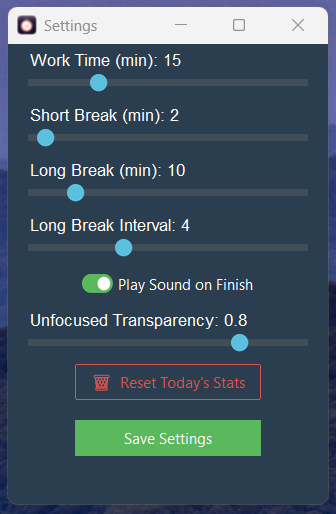
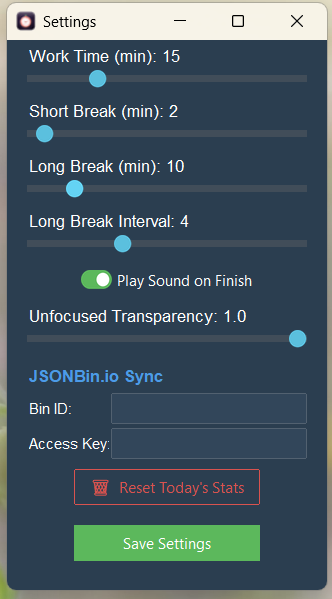
update readme

Changed region(s): [[0.0, 0.0, 1.0, 1.0], [0.8735, 0.5292, 0.9337, 0.5914]]

diff --git a/README.md b/README.md
@@ -1,29 +1,40 @@
 # Pomodoro Timer
-A desktop Pomodoro timer and stopwatch app built with Python and Tkinter (ttkbootstrap). It includes todo management, daily stats, sound alerts, and customizable window sizes and transparency.
+A desktop Pomodoro timer and stopwatch app that always stays on top. It includes todo management, daily stats, syncing, and more.
 
-## Download
 
-Prebuilt executables for Windows, macOS, and Linux are published on the [Releases page](../../releases) for every tagged version.
+
+## Quick Start
+
+### Download
+Prebuilt executables for Windows, macOS, and Linux are published on the [Releases page](../../releases).
+
+### Command Line
+Requires the `uv` package manager. Run:
+```bash
+uv run src/pomodoro.py
+```
+
+
 
 ## Features
 - Customizable Pomodoro cycles: Work, Short Break, Long Break
-- Endless Timer/Stopwatch mode for custom focus sessions
-- Todo management in a separate window with add, edit, delete, and completion tracking
+- Endless Stopwatch mode
+- Todo management
 - Optional todo sync across devices via [JSONBin](https://jsonbin.io)
-- Daily Report with today's focus statistics and a statistics reset option in settings
-- Audio notifications on session completion
-- Adjustable font size for a customizable desktop clock feel
-- Always on top, with transparency option when unfocused (transparency on macOS in progress)
-- Timer maximize and minimize option for minimal distraction
+- Daily Report
+- Adjustable font size
+- Always on top, with transparency option (transparency support on macOS is in progress)
 - Remembers and restores custom window dimensions
+
+
 
 ## Screenshots
 
 ![main](images/main.png)
 
-![maximized](images/maximized.png)
-
 ![stopwatch](images/stopwatch.png)
+
+![maximized](images/maximized.png)
 
 ![todos](images/todos.png)
 
@@ -31,39 +42,12 @@ Prebuilt executables for Windows, macOS, and Linux are published on the [Release
 
 ![report](images/report.png)
 
+
+
+
 ## Setup
 
 We use `uv` for dependency management. Install it from [here](https://docs.astral.sh/uv/getting-started/installation/) if you don't have it.
-
-## Versioning
-
-The app version is defined once in `pyproject.toml`. Platform builds read that value for the Settings window, the Linux `.deb` package, the Windows installer, and the macOS app bundle.
-
-Use `uv` to bump the version. This updates both `pyproject.toml` and the project entry in `uv.lock`; do not edit `uv.lock` manually:
-
-```bash
-uv version --bump patch
-```
-
-To publish a release, validate and commit the version change before creating the matching tag:
-
-```bash
-VERSION=$(uv version --short)
-
-uv lock --check
-uv run pytest -q
-
-git add pyproject.toml uv.lock
-git commit -m "Bump version to ${VERSION}"
-
-git tag "v${VERSION}"
-git push origin HEAD
-git push origin "v${VERSION}"
-```
-
-Pushing the tag triggers the `Release` GitHub Actions workflow, which builds Linux, Windows, and macOS packages and attaches them to a new GitHub Release. Use `uv version --bump minor` or `uv version --bump major` instead when appropriate.
-
-## Running
 
 ### Run directly (all platforms)
 ```bash
@@ -99,23 +83,13 @@ uv run pyinstaller --clean --noconfirm pomodoro.spec
 ```
 Then run `open dist/Pomodoro.app` (or double-click the bundle in Finder).
 
-## Configuration
-Settings (`settings.json`) and session statistics (`history.json`) are stored in the user profile directory:
-- **Windows**: `%APPDATA%\pomodoro-timer\` (e.g., `C:\Users\<username>\AppData\Roaming\pomodoro-timer\`)
-- **macOS & Linux**: `~/.config/pomodoro-timer/`
+
 
 ## Todo Sync (JSONBin)
-Todos can be synced across devices using [JSONBin](https://jsonbin.io) as free cloud storage. Sync pulls the remote list, merges it with your local todos (the most recently edited version of each item wins), pushes the merged result back, and saves it locally — all in a background thread so the UI never freezes.
-
-Sync runs automatically:
-- When the Todos window opens (pulling in anything changed elsewhere) and again when it closes (pushing anything you just changed).
-- ~2.5 seconds after you add, edit, complete, or delete a todo, so changes go out even if you never close the window — the timer resets on every new change so a burst of edits only triggers one sync, not one per action.
-
-A **Sync** button is still there if you want to force a sync immediately — e.g. to pull in a change from another device without waiting. A small status line under the title shows the result ("Syncing…", "Synced at 14:32:10", or "Sync failed: …"). If a change comes in while a sync is already in flight, it's queued and synced right after the current one finishes rather than being dropped.
+Todos can be synced across devices using [JSONBin](https://jsonbin.io) as free cloud storage. 
 
 ### 1. Create a bin
-JSONBin doesn't allow creating an empty bin, so seed it with a sample todo — the app will overwrite it on the first sync anyway:
-
+JSONBin doesn't allow creating an empty bin, so seed it with a sample todo.
 1. Sign up / log in at [jsonbin.io](https://jsonbin.io).
 2. Go to **Bins** and click **Create a Bin**.
 3. Paste the following as the bin content and save:
@@ -131,12 +105,11 @@ JSONBin doesn't allow creating an empty bin, so seed it with a sample todo — t
 4. Copy the **Bin ID** shown for that bin — you'll need it in step 3.
 
 ### 2. Create a scoped access key
-Don't use your account's **X-Master-Key** in the app — it grants full access to every bin on your account. Instead create a key scoped to just this bin:
 
 1. Go to **API Keys** and click **Create Access Key**.
-2. Give it a name (e.g. `pomodoro-todos`) and restrict it to the bin you created above.
-3. Grant **Read** and **Update** permissions — that's all the app uses (`GET .../latest` and `PUT ...`); Create and Delete aren't needed.
-4. Copy the generated **X-Access-Key** value — this is a long string starting with `$2a$...`, not the shorter "Access Key ID".
+2. Give it a name (e.g. `pomodoro-todos`)
+3. Grant **Read** and **Update** permissions
+4. Copy the generated **X-Access-Key** value, not the shorter 'Access Key ID'.
 
 ### 3. Configure the app
 1. Open **Settings** in the app.
@@ -144,16 +117,50 @@ Don't use your account's **X-Master-Key** in the app — it grants full access t
 3. Click **Save Settings**.
 
 ### 4. Sync
-Open the **Todos** window — it syncs automatically. The first sync will pull in the "Sample todo" from step 1 — just delete it once, and that deletion will sync to every device from then on. Repeat the setup on each device using the same Bin ID and Access Key to keep todos in sync.
+Open the **Todos** window — it syncs automatically. 
 
-**Note:** merging is based on an `updated_at` timestamp per todo, not real-time collaboration — for the same todo edited on two devices before either syncs, the most recently edited (or deleted) version wins.
 
-Deleted todos are kept as hidden "tombstones" for 7 days after deletion so the deletion has time to reach every device on its next sync, then they're purged automatically. If a device goes more than 7 days without syncing, a todo it deleted in that window could reappear.
 
-## Running tests
+## Contribution Guidelines 
+
+### Versioning
+
+The app version is defined once in `pyproject.toml`. Platform builds read that value for the Settings window, the Linux `.deb` package, the Windows installer, and the macOS app bundle.
+
+Use `uv` to bump the version. This updates both `pyproject.toml` and the project entry in `uv.lock`; do not edit `uv.lock` manually:
+
+```bash
+uv version --bump patch
+```
+
+To publish a release, validate and commit the version change before creating the matching tag:
+
+```bash
+VERSION=$(uv version --short)
+
+uv lock --check
+uv run pytest -q
+
+git add pyproject.toml uv.lock
+git commit -m "Bump version to ${VERSION}"
+
+git tag "v${VERSION}"
+git push origin HEAD
+git push origin "v${VERSION}"
+```
+
+Pushing the tag triggers the `Release` GitHub Actions workflow, which builds Linux, Windows, and macOS packages and attaches them to a new GitHub Release. Use `uv version --bump minor` or `uv version --bump major` instead when appropriate.
+
+### Configuration Files
+Settings (`settings.json`) and session statistics (`history.json`) are stored in the user profile directory:
+- **Windows**: `%APPDATA%\pomodoro-timer\` (e.g., `C:\Users\<username>\AppData\Roaming\pomodoro-timer\`)
+- **macOS & Linux**: `~/.config/pomodoro-timer/`
+
+### Running tests
 ```bash
 uv run pytest
 ```
 
-#### Icon attribution
+
+## Icon attribution
 <a href="https://www.flaticon.com/free-icons/timer" title="timer icons">Timer icons created by Freepik - Flaticon</a>
